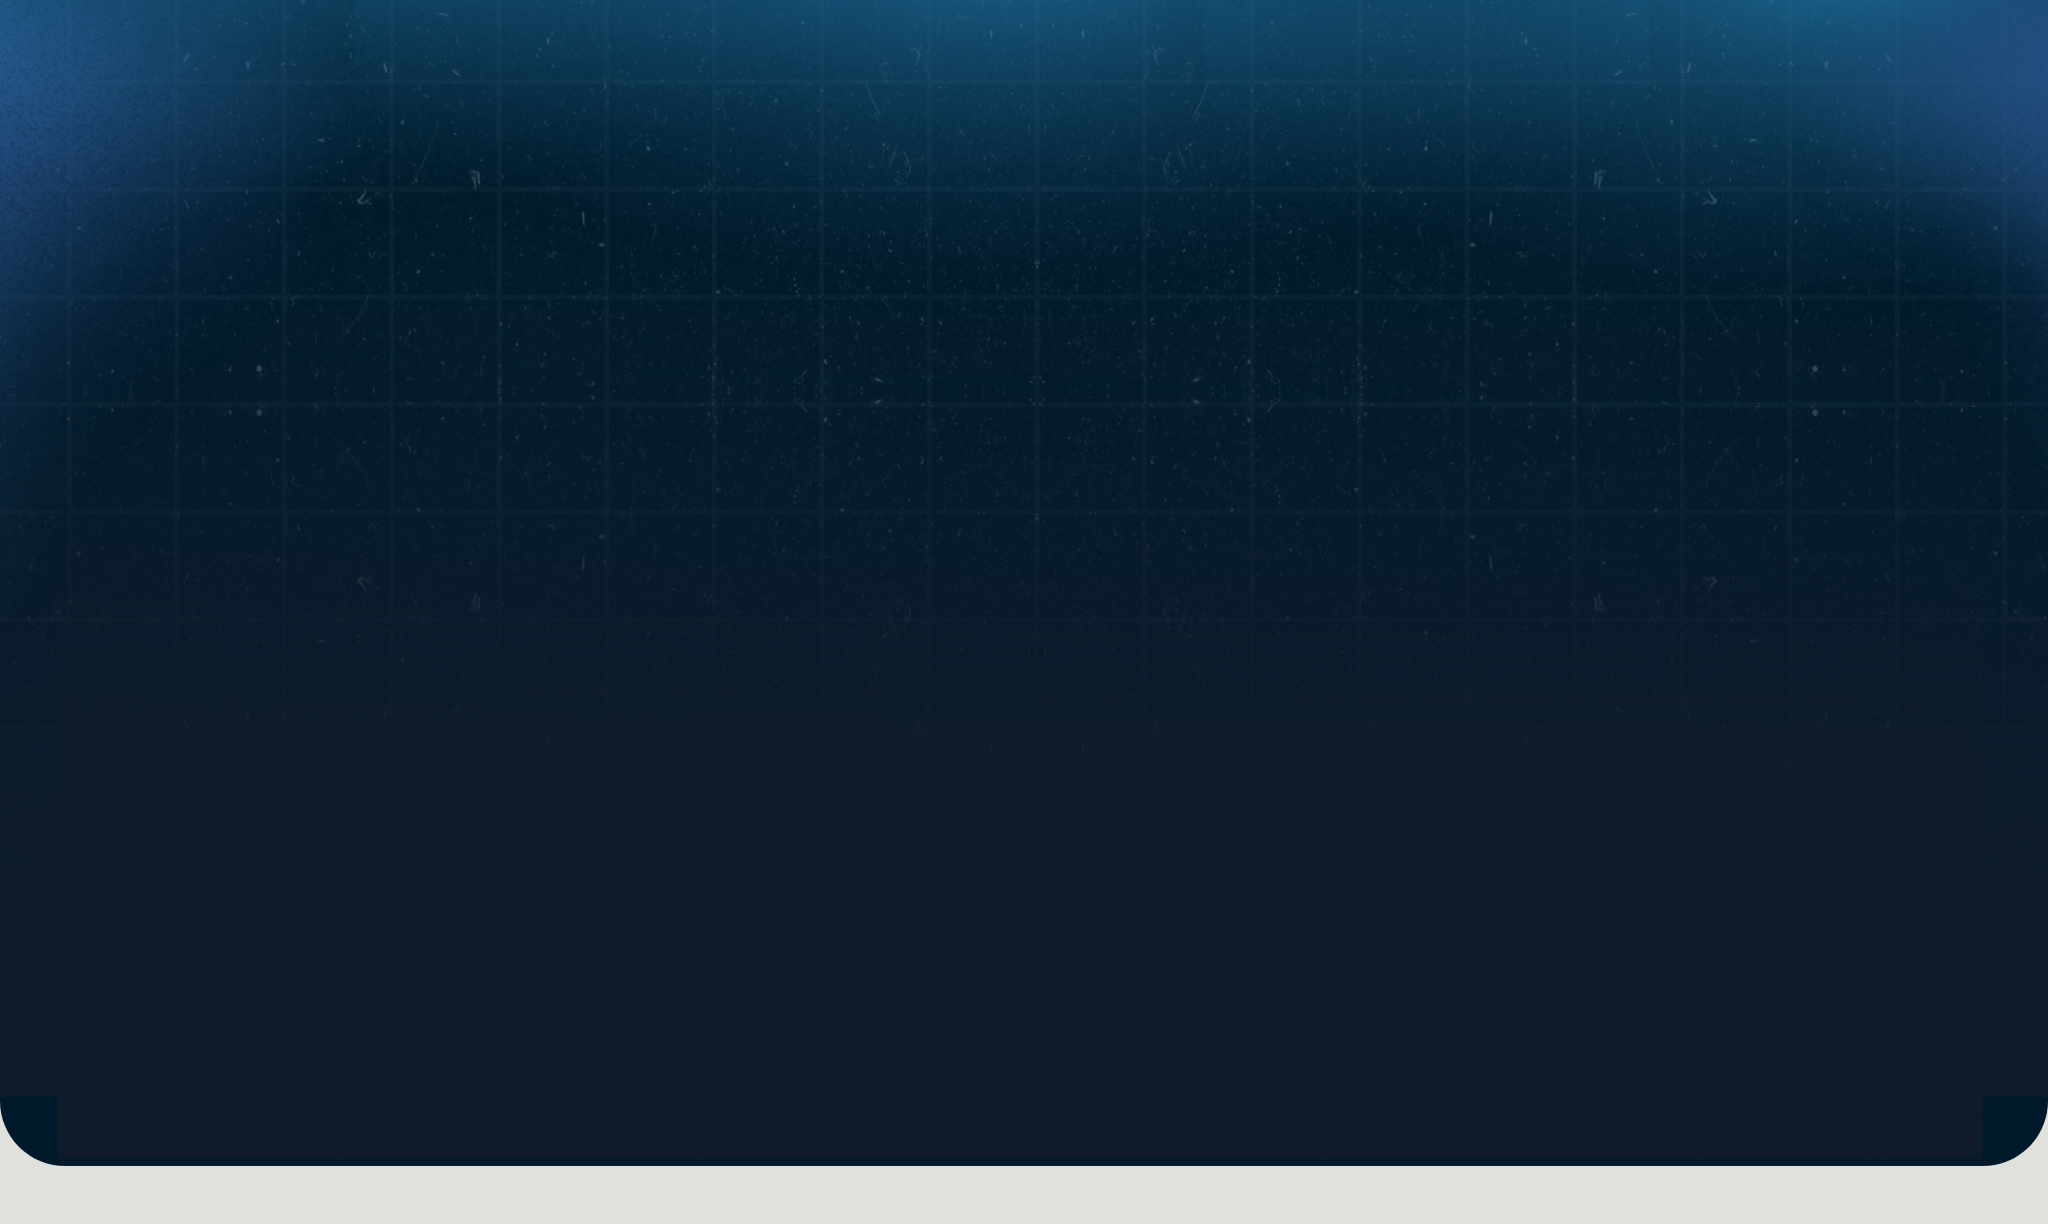
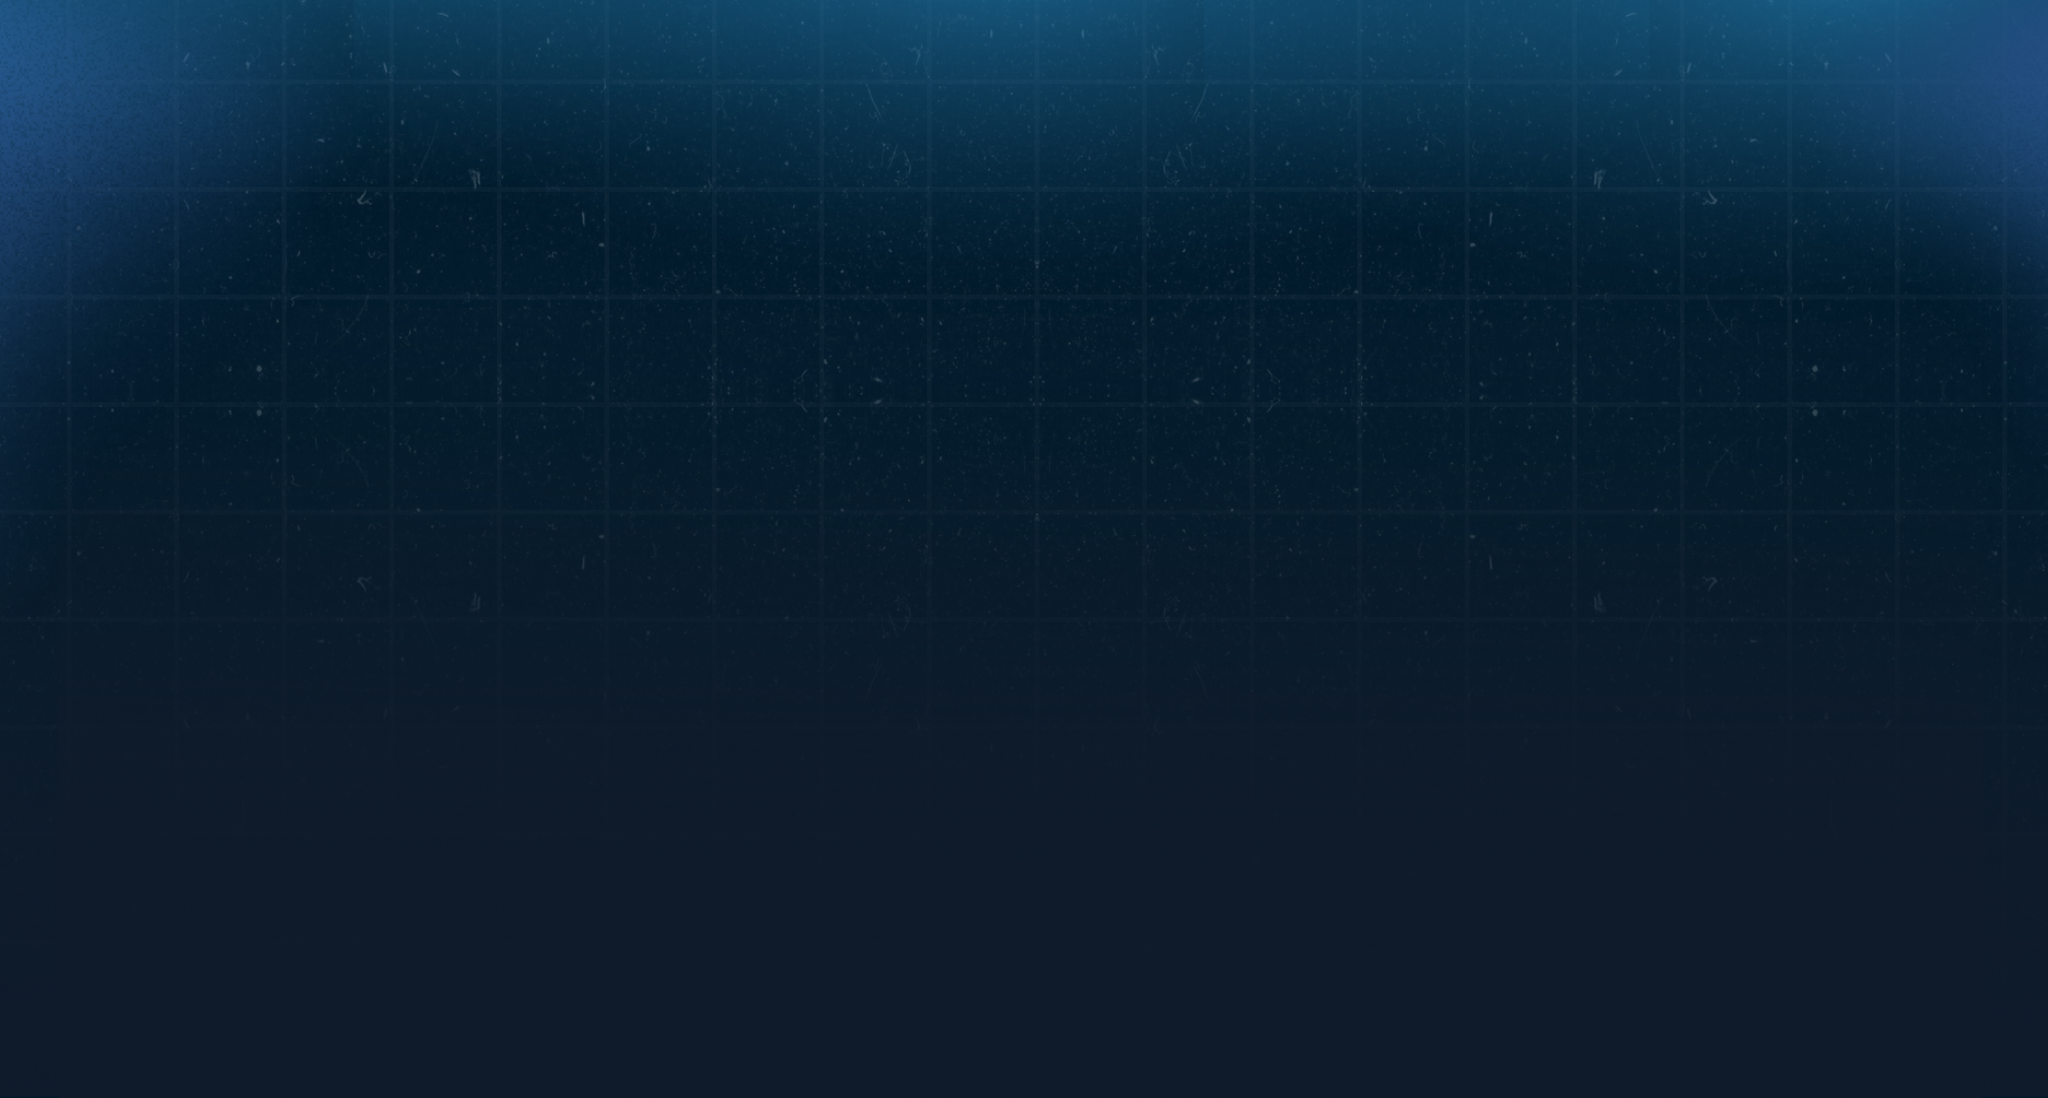
Alterado a o fundo e criado um border

Changed region(s): [[0.0, 0.929, 1.0, 1.0]]

diff --git a/style.css b/style.css
@@ -7,7 +7,7 @@
 body {
     font-family: 'Montserrat', sans-serif;
     margin: 0;
-    background-color: var(--cor-principal);
+    background-color: white;
     background-attachment: fixed;
 }
 
@@ -95,7 +95,7 @@ a {
 
 .hero-section {
     min-height: calc(100vh - 80px);
-    background-color: var(--cor-principal);
+    background-color: white;
     display: flex;
     justify-content: center;
     align-items: center;
@@ -105,6 +105,9 @@ a {
     background-size: cover;
     background-position: center;
     background-repeat: no-repeat;
+    border-bottom-left-radius: 75px;
+    border-bottom-right-radius: 75px;
+    overflow: hidden; 
 }
 
 .hero-content {
